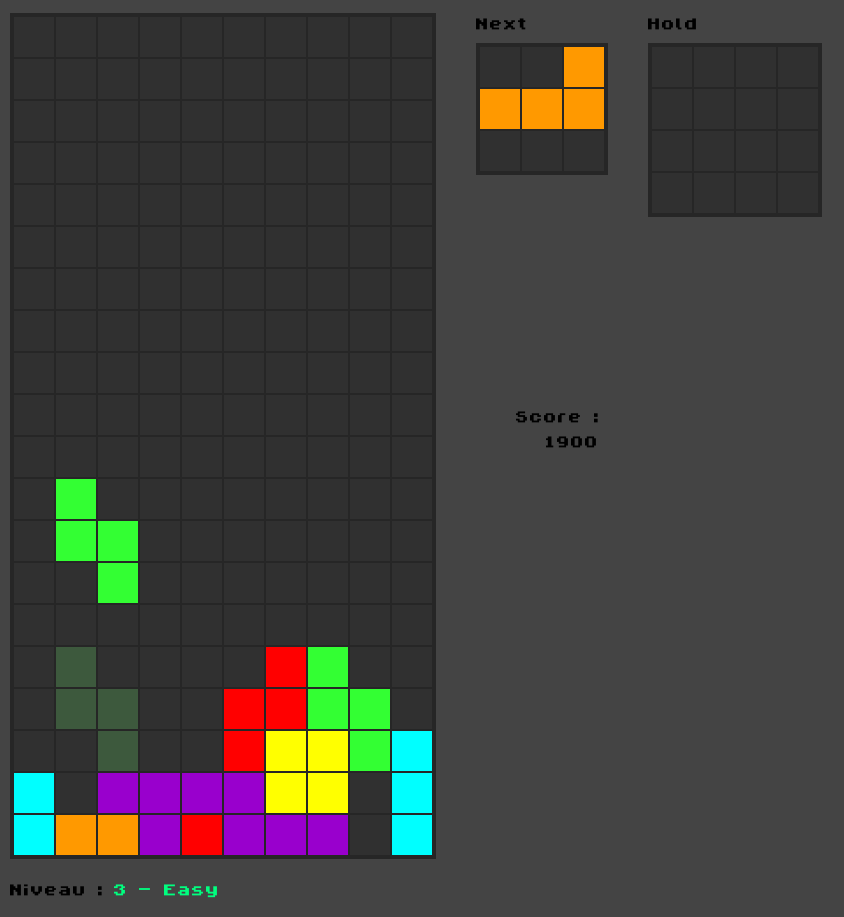
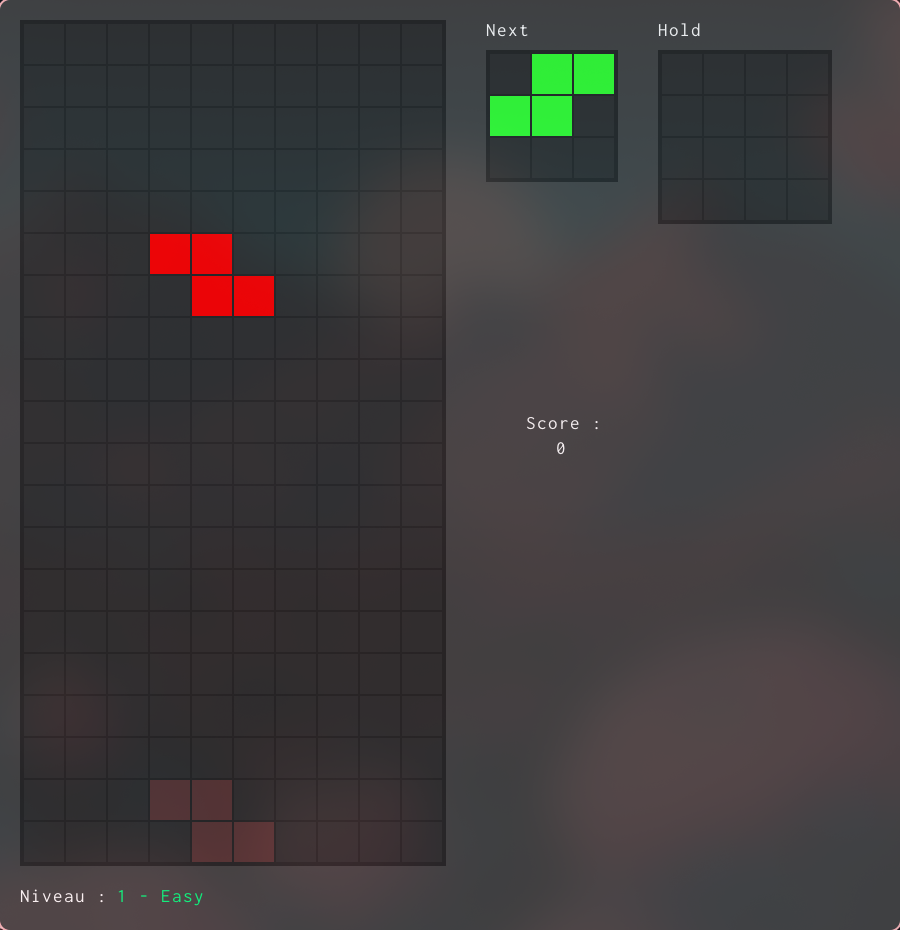
docs: update README and docs

diff --git a/README.md b/README.md
@@ -44,7 +44,10 @@ Voici un aperçu de l'application en version CLI.
 Voici un aperçu de l'application en version GUI.
 
 <p align=center>
+  <img src="./docs/GUI_HomePage.png" alt="Page d'accueil" height="330">
   <img src="./docs/GUI_GameExemple.png" alt="Page d'accueil" height="330">
+  <img src="./docs/GUI_Pause.png" alt="Page d'accueil" height="330">
+  <img src="./docs/GUI_GameOver.png" alt="Page d'accueil" height="330">
 </p>
 
 ## Fonctionnalités